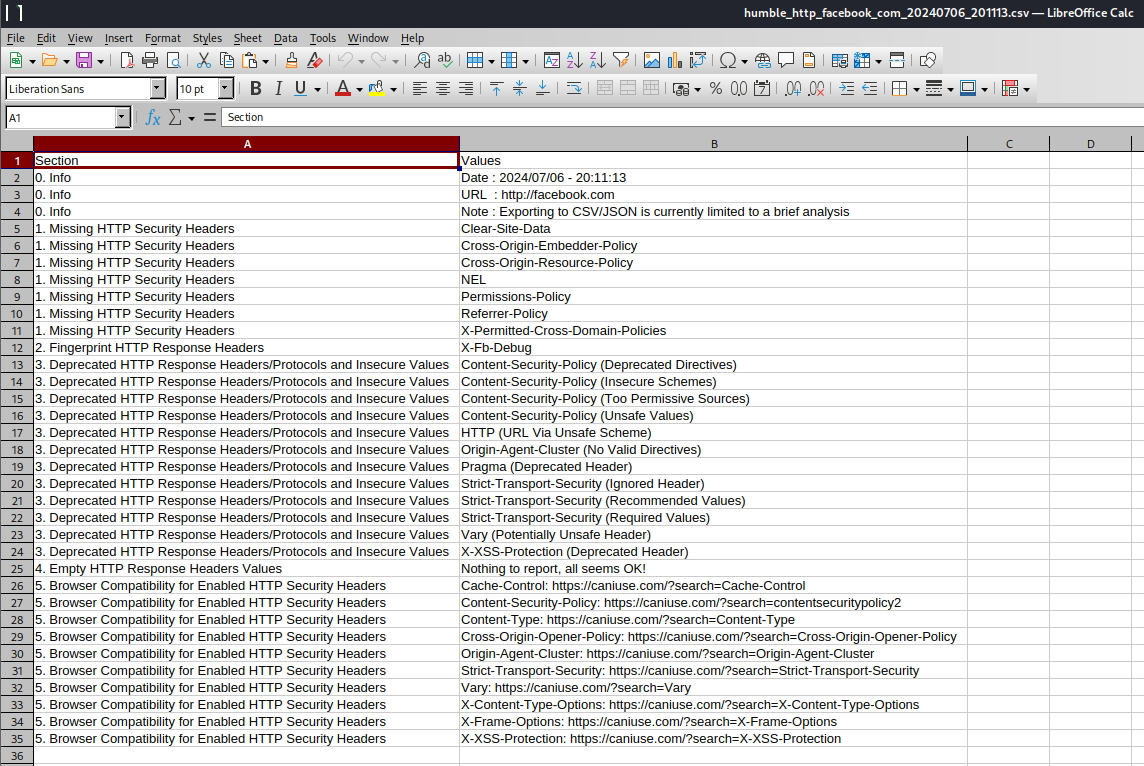
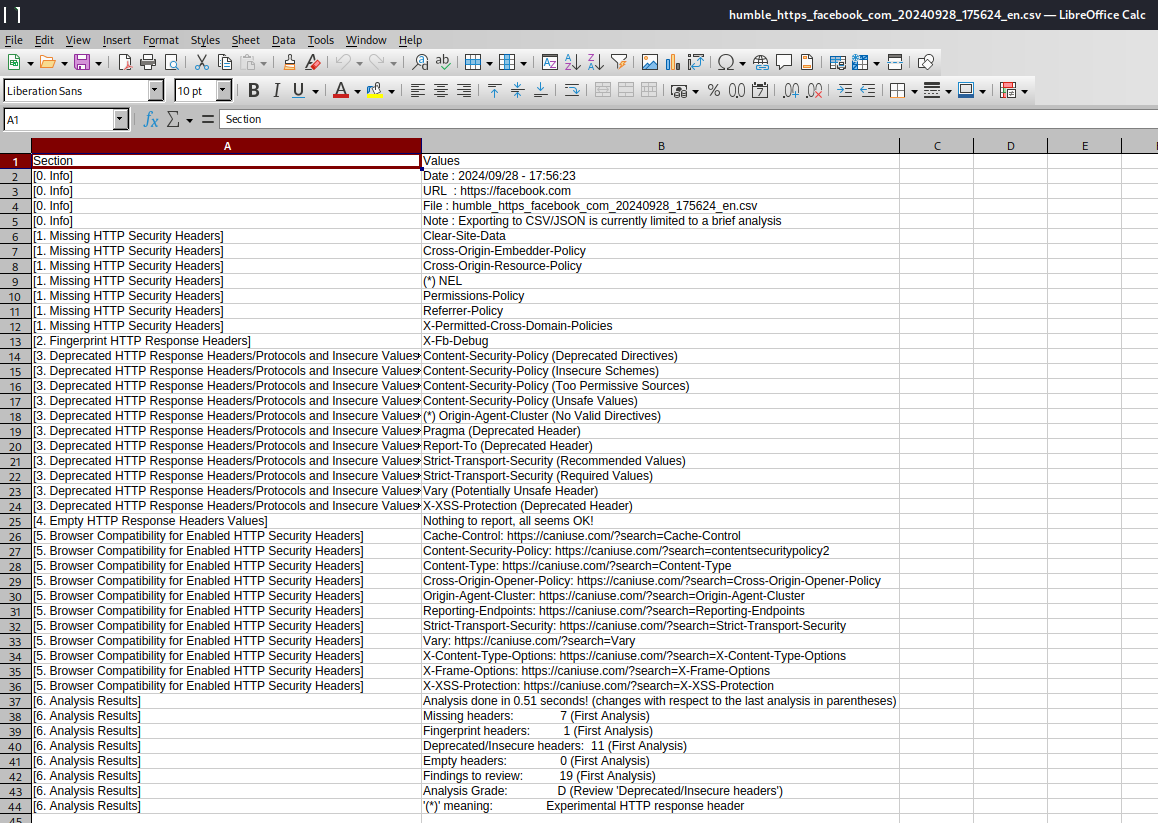
Minor: Screenshots updated

diff --git a/README.md b/README.md
@@ -110,7 +110,7 @@ Options used: -f -g -p -U -s --hints
 <img src="https://github.com/rfc-st/humble/blob/master/screenshots/humble_fng.jpg" alt="(Linux) - List of HTTP fingerprint headers based on a specific term" width=70% height=70%>
 </p>
 <br />
-.: (Linux) - Brief analysis saved as CSV. <a href="https://github.com/rfc-st/humble/raw/master/samples/humble_http_facebook_com_20240706_201113.csv">Example.</a><br />
+.: (Linux) - Brief analysis saved as CSV. <a href="https://github.com/rfc-st/humble/raw/master/samples/humble_https_facebook_com_20240928_175624_en.csv">Example.</a><br />
 <p></p>
 <p align="center">
 <img src="https://github.com/rfc-st/humble/blob/master/screenshots/humble_csv_s.PNG" alt="(Linux) - Brief analysis saved as CSV" width=70% height=70%>
@@ -128,7 +128,7 @@ Options used: -f -g -p -U -s --hints
 <img src="https://github.com/rfc-st/humble/blob/master/screenshots/humble_html_s.PNG" alt="(Linux) - Detailed analysis saved as HTML" width=70% height=70%>
 </p>
 <br />
-.: (Linux) - Brief analysis saved as JSON. <a href="http://jsonblob.com/1261345868962717696">Example.</a><br />
+.: (Linux) - Brief analysis saved as JSON. <a href="http://jsonblob.com/1289618254153506816">Example.</a><br />
 <p></p>
 <p align="center">
 <img src="https://github.com/rfc-st/humble/blob/master/screenshots/humble_json_s.PNG" alt="(Linux) - Brief analysis saved as JSON" width=70% height=70%>
